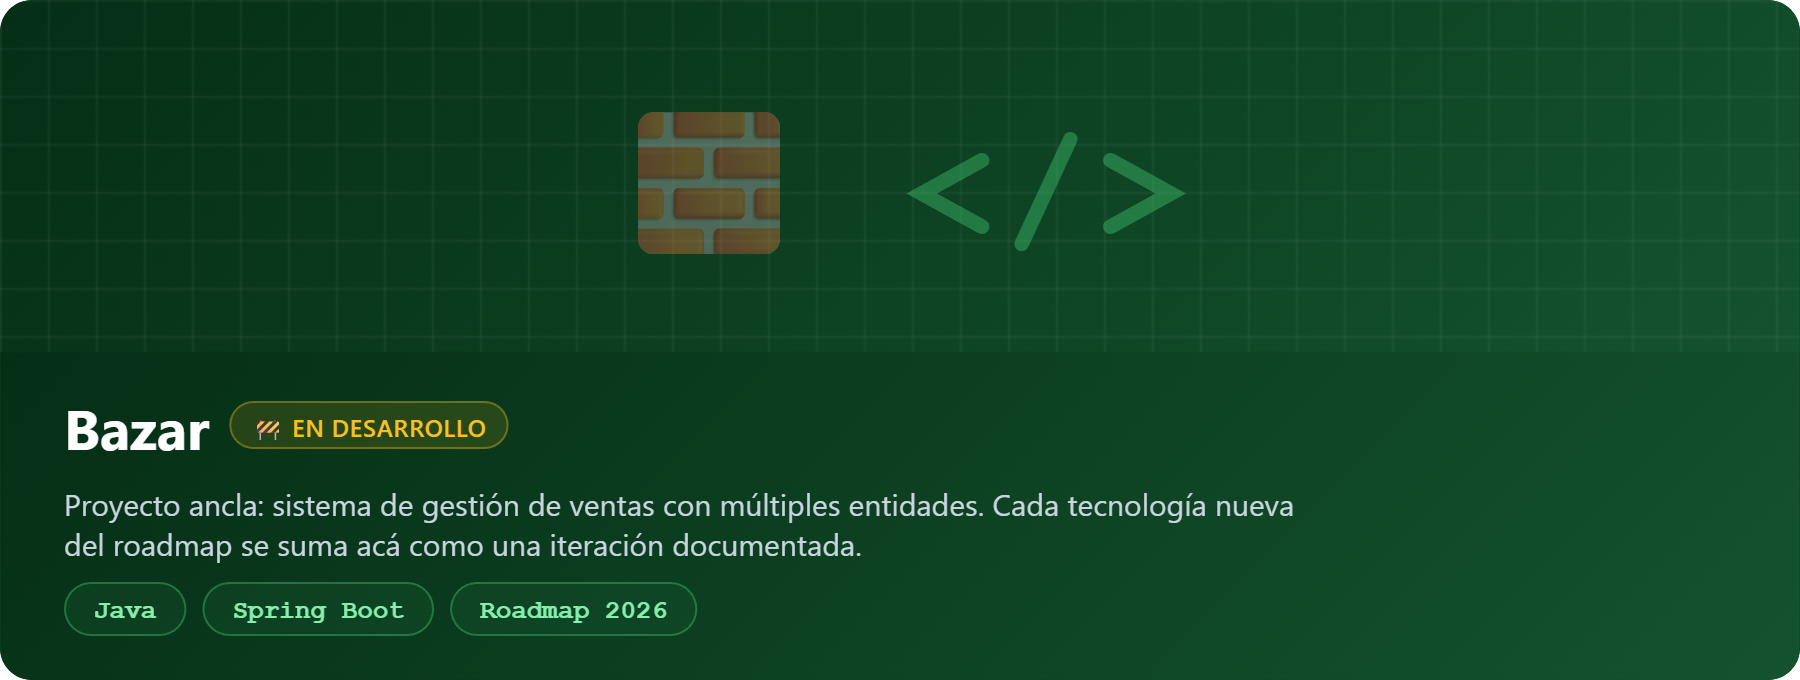
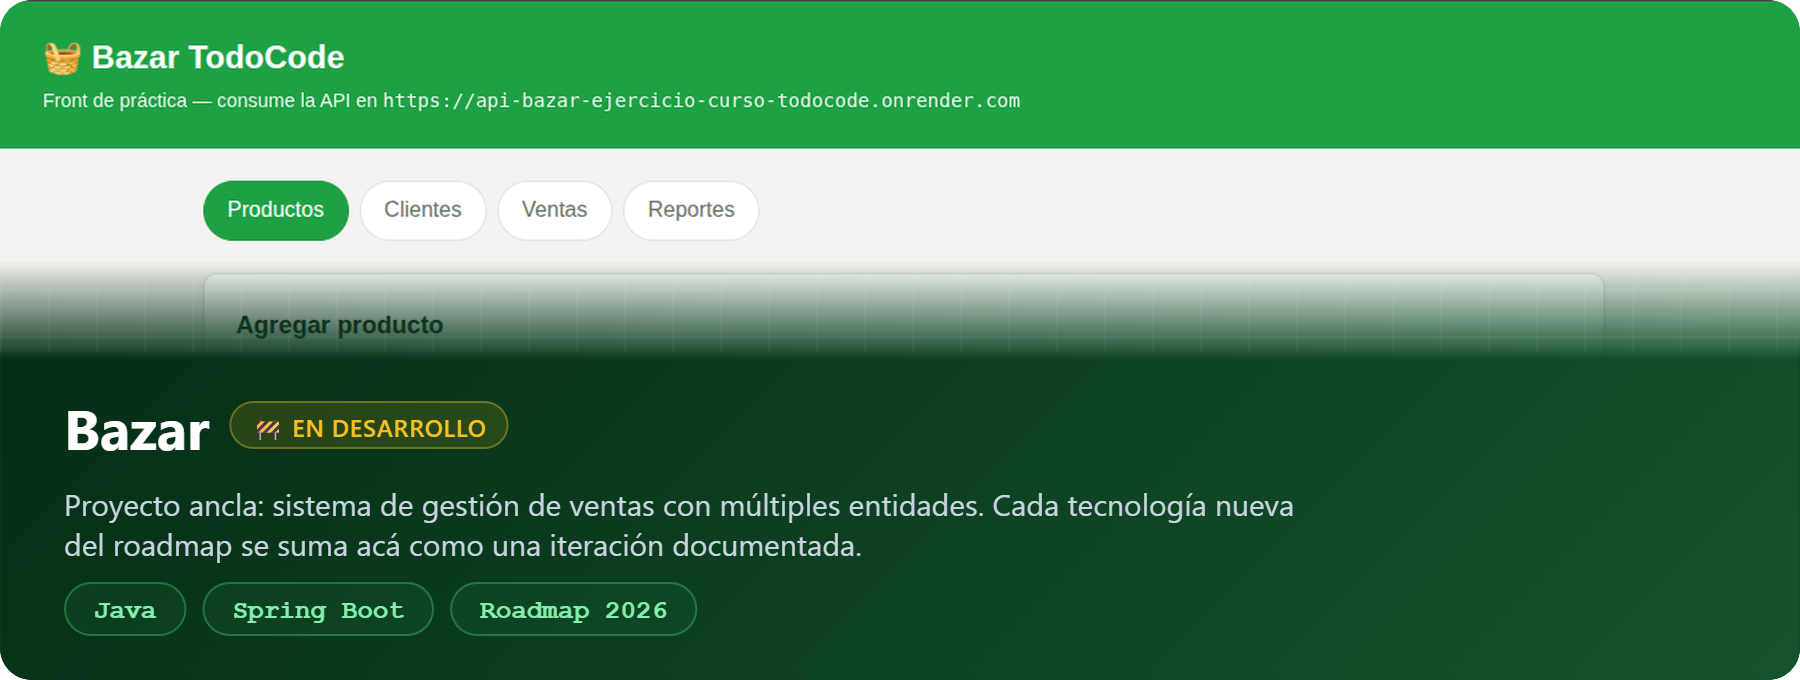
Update. Se actualiza la Card de Bazar ahora que el proyecto es publico.

diff --git a/README.md b/README.md
@@ -124,10 +124,13 @@
 
 > Voy a ir creciendo este proyecto a medida que avanzo en mi roadmap (funcional → microservicios → Spring Security → testing → Spring AI), documentando cada etapa.
 
-![Bazar](./assets/Bazar-Card.png)
+[![Bazar](./assets/Bazar-Card.png)](https://github.com/mdev-repos/api_bazar__ejercicio_curso_todocode)
+
+[![Repo](https://img.shields.io/badge/Repo-181717?style=flat-square&logo=github)](https://github.com/mdev-repos/api_bazar__ejercicio_curso_todocode)
+[![Front Demo](https://img.shields.io/badge/Front%20Demo-00C853?style=flat-square&logo=rocket)](https://mdev-repos.github.io/front_bazar__curso_todocode/)
 
 Sistema de gestión de venta más complejo (múltiples entidades, lógica de negocio de ventas/stock) que ferretería, lo que me da la posibilidad de expandirlo con tecnologías más desafiantes. Va a ser mi proyecto de referencia: cada tecnología nueva del roadmap se incorpora acá como una iteración documentada, en vez de quedar dispersa en mini-proyectos sueltos.
-Repo privado por ahora (recién empezado) — lo haré público apenas tenga una primera versión estable.
+Backend corriendo en local por ahora — el deploy (Render + PostgreSQL) es el próximo paso.
 
 <br>
 
